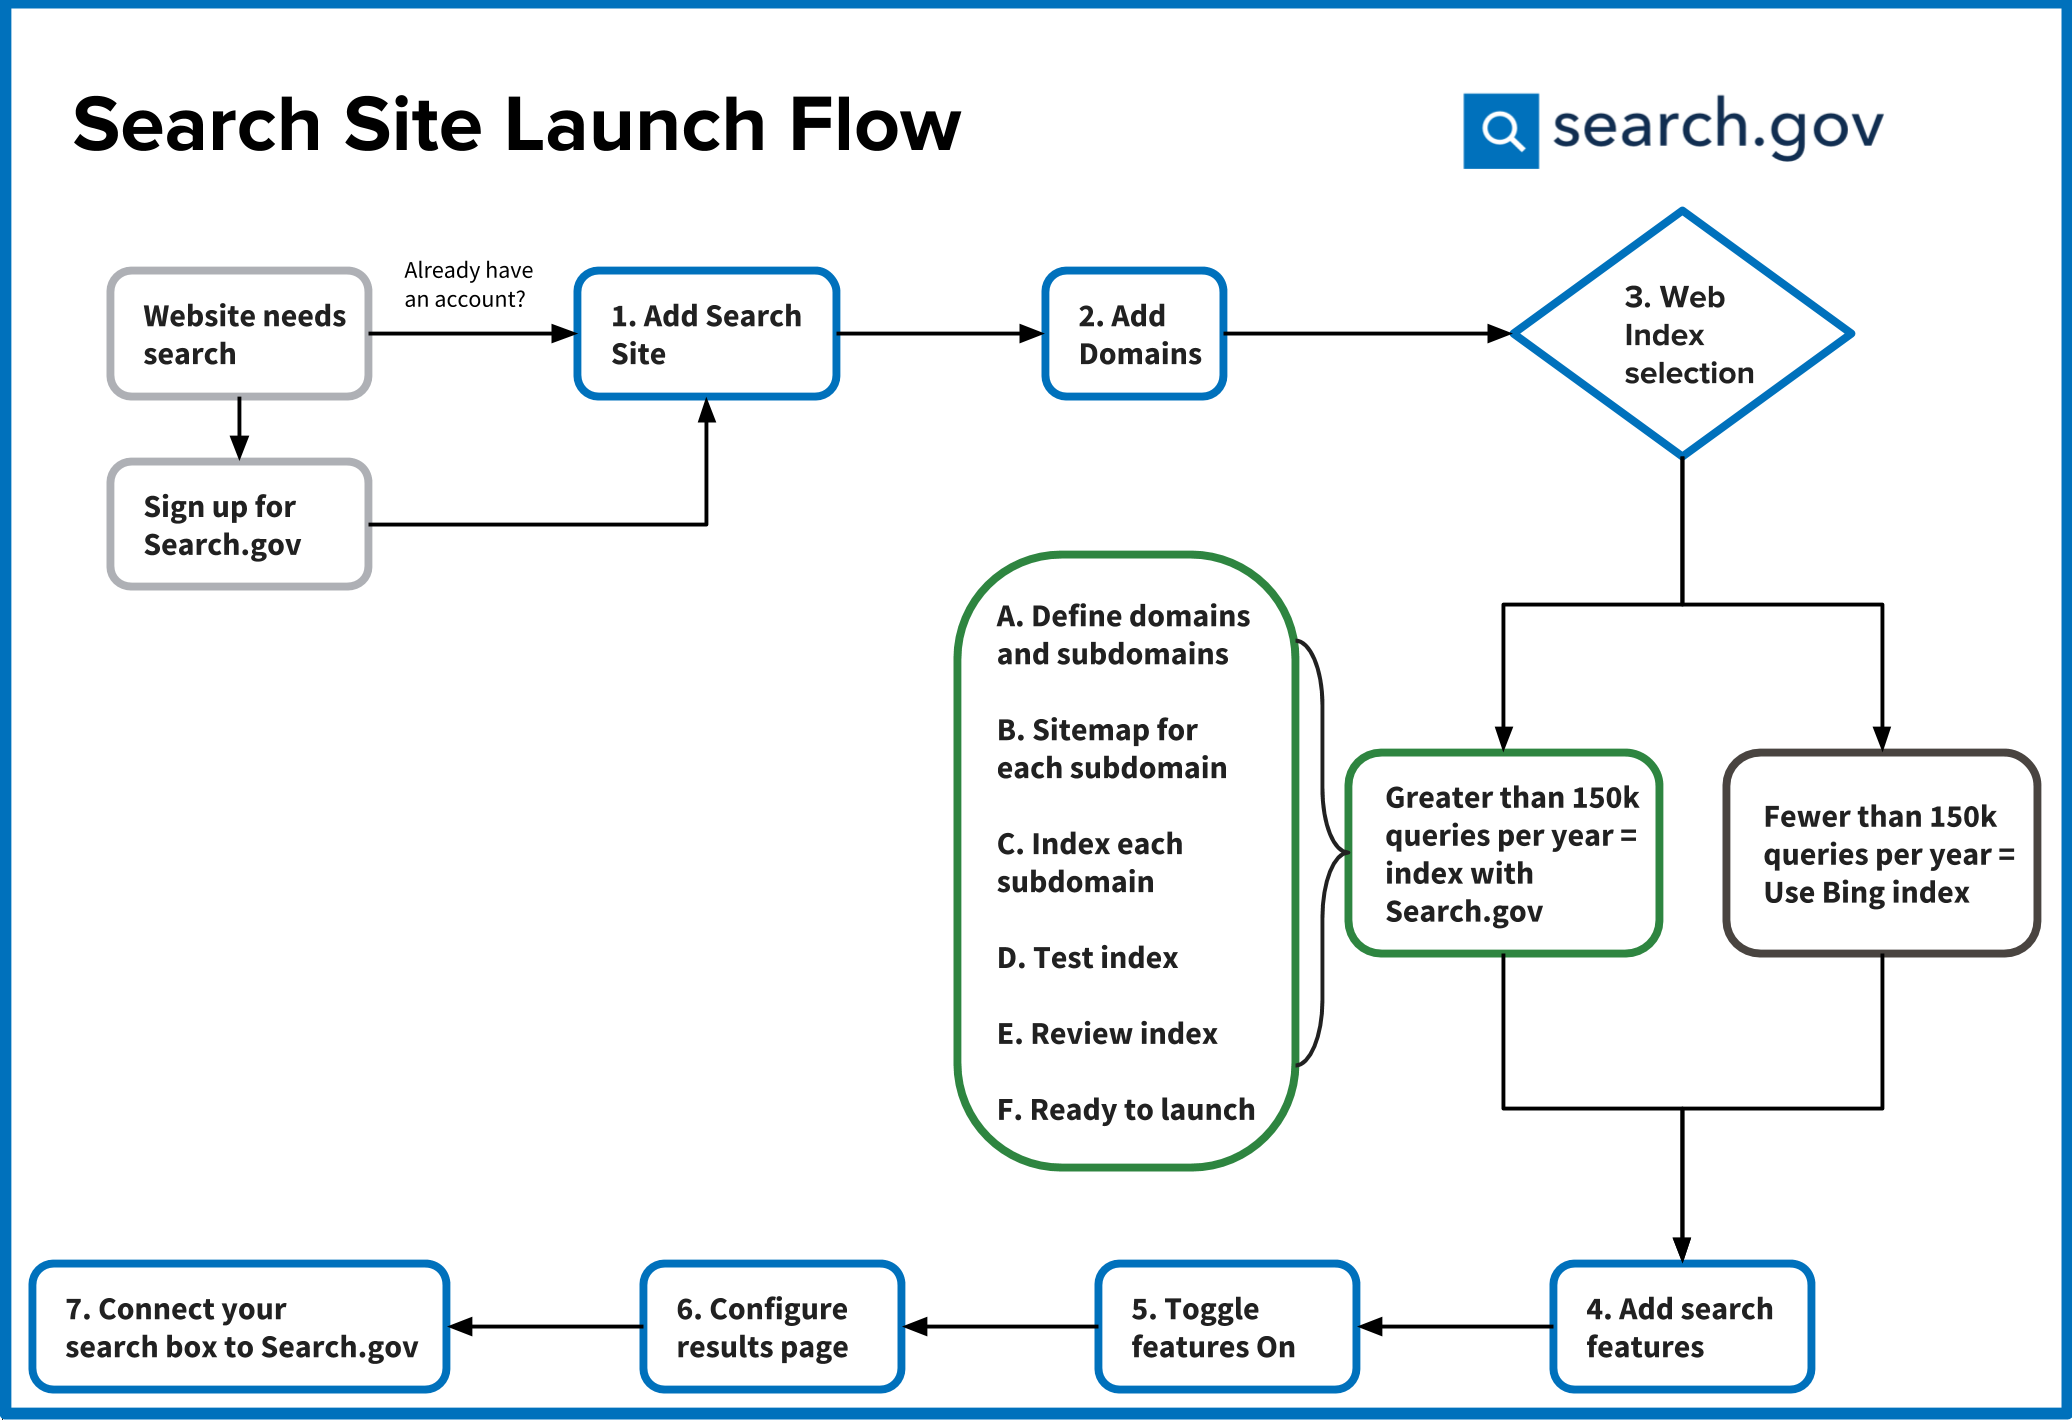
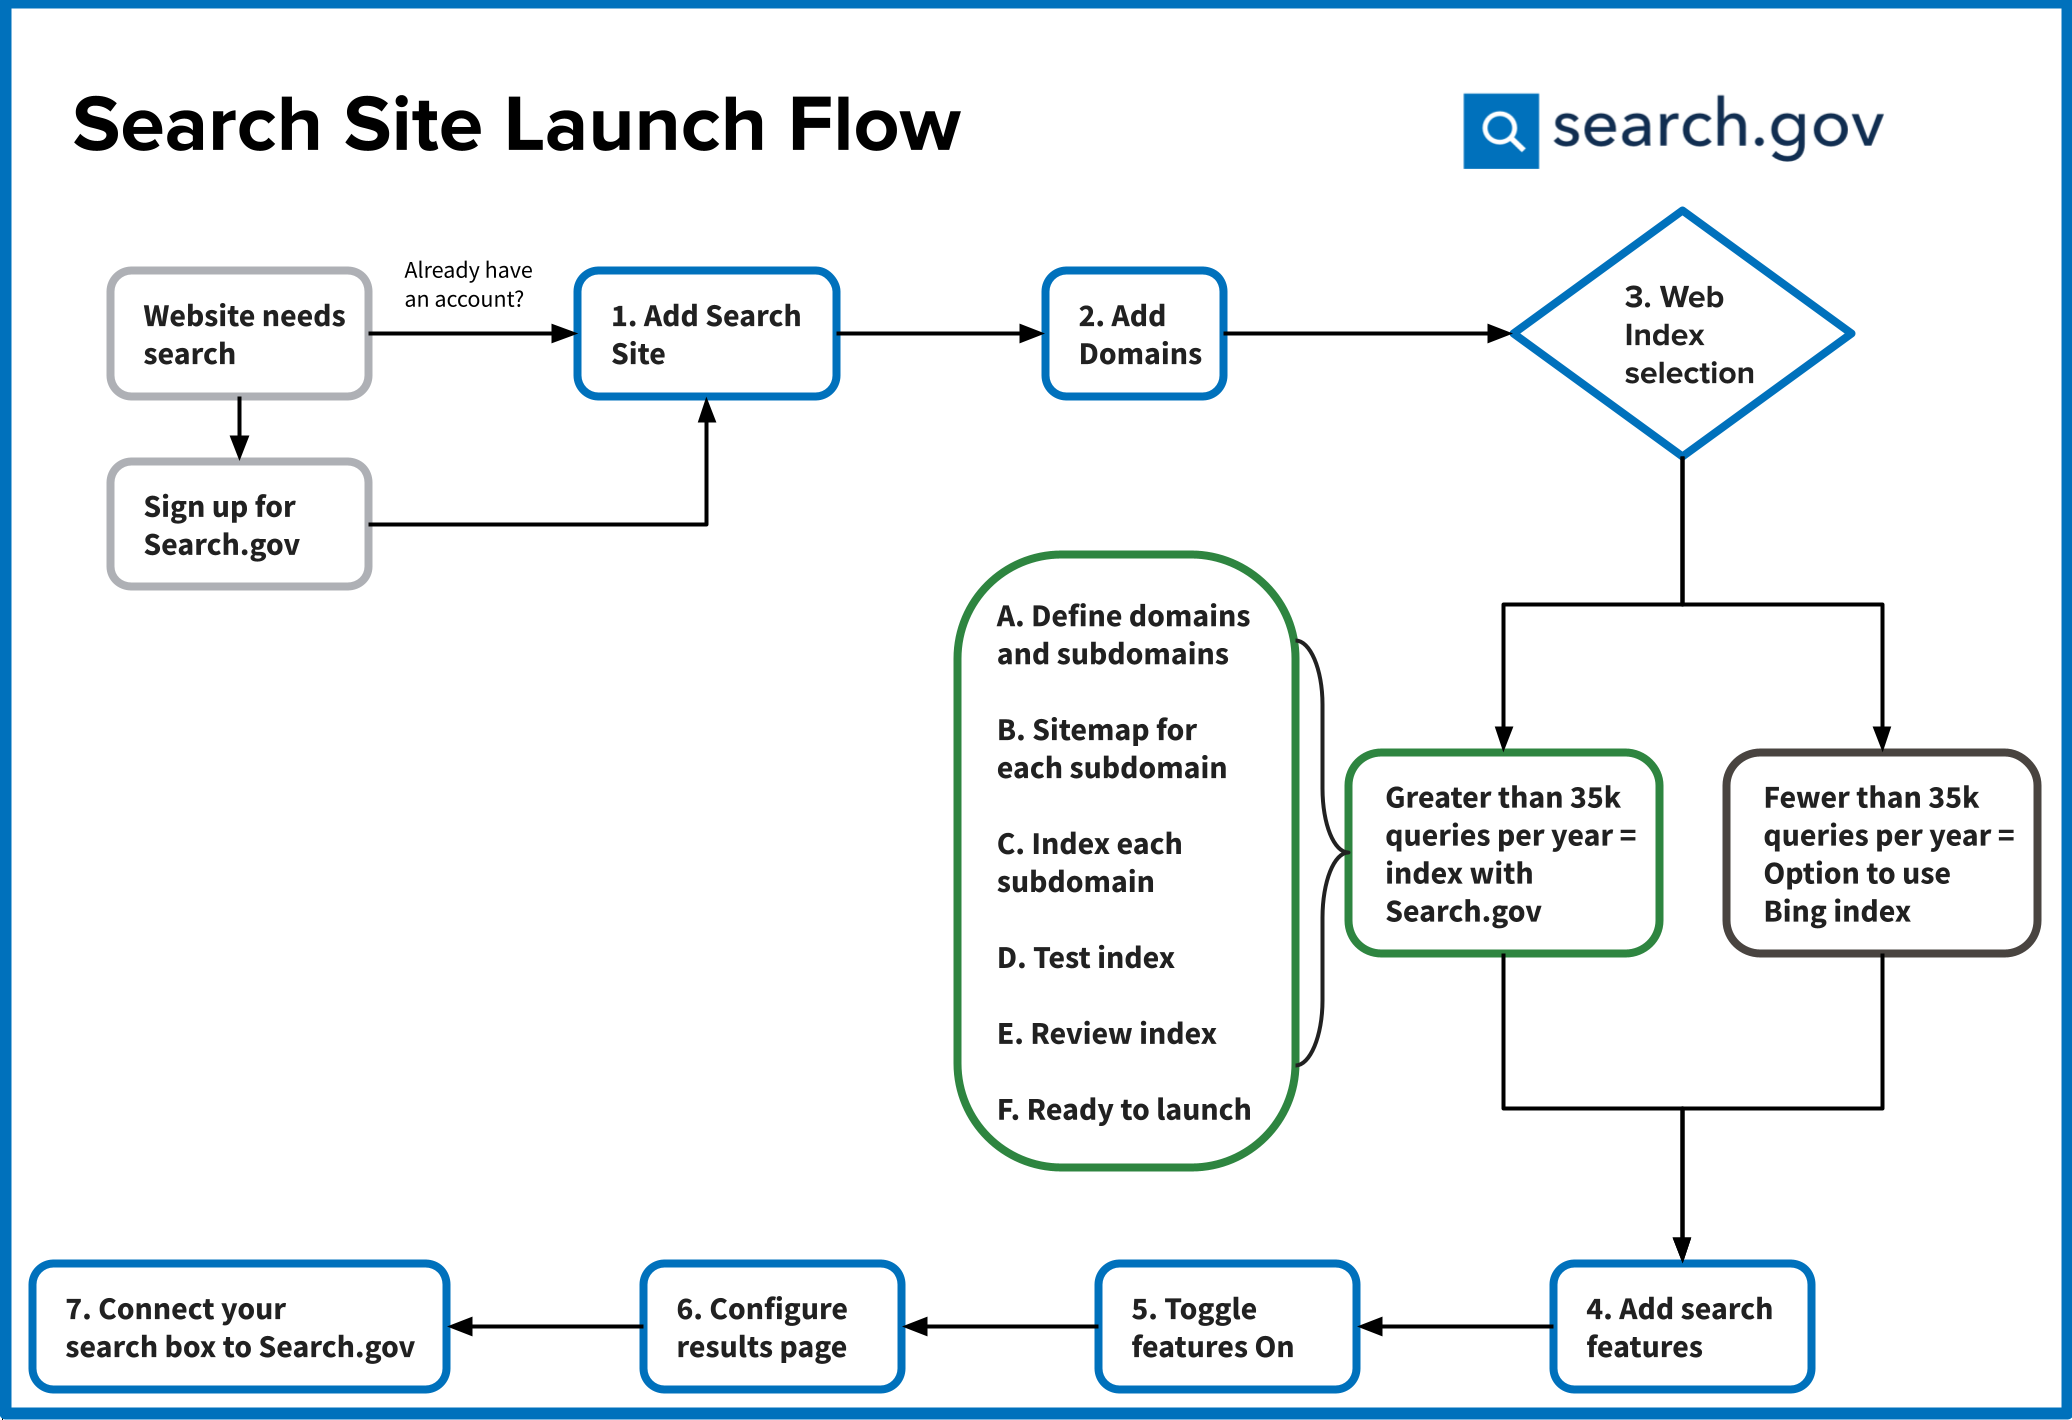
Dawnpm indexing threshold (#240)
* lower from 150k to 35k

diff --git a/_get-started/site-launch-guide.md b/_get-started/site-launch-guide.md
@@ -24,10 +24,10 @@ At Search.gov we aim to provide a self-service, plug and play search solution. T
 1. [Configure the branding of your results page](#configure-branding)
 1. [Connect your website’s search box to your search site](#go-live)
 
-![Flow chart showing the steps involved in launching a search site on Search.gov]({{ site.url }}/files/site-launch-workflow.png){: .img-responsive}
+![Flow chart showing the steps involved in launching a search site on Search.gov]({{ site.baseurl }}/files/site-launch-workflow.png){: .img-responsive}
 [Site launch flow chart detailed description](#add-site)
 
-[Open large version]({{ site.url }}/files/site-launch-workflow.png)
+[Open large version]({{ site.baseurl }}/files/site-launch-workflow.png)
 
 {: #add-site }
 
@@ -65,7 +65,7 @@ Once you've created your site, note the actions available on the left-hand navig
 
 **Who:** Search.gov team, in consultation with you, the agency web team
 
-**What:** By default a new search site will be connected to the Bing web index to receive web results. Websites with very low levels of search traffic can continue to use the Bing web index after they launched our service. However, sites that will see greater than 150,000 queries per year will need to be indexed directly by our service before going live.  We monitor new sites established in our system, and will reach out if we think your site will need to be indexed by us, or if we need more information to make a determination.
+**What:** By default a new search site will be connected to the Bing web index to receive web results. Websites with very low levels of search traffic can continue to use the Bing web index after they launched our service. However, sites that will see greater than 35,000 queries per year will need to be indexed directly by our service before going live.  We monitor new sites established in our system, and will reach out if we think your site will need to be indexed by us, or if we need more information to make a determination.
 
 Regardless of the index used to support your search, we can only serve publicly accessible content. You will not be able to use our service for secure content, including intranets, and we can never index or serve personally identifiable information (PII) or other confidential data.
 
